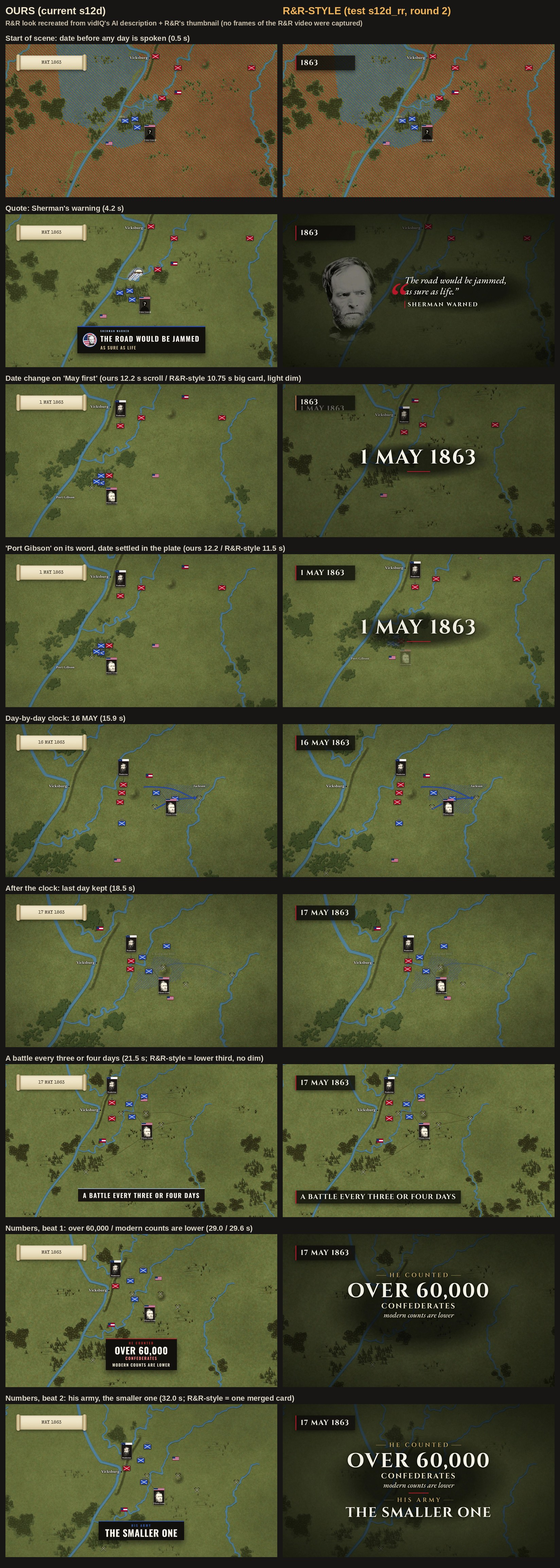
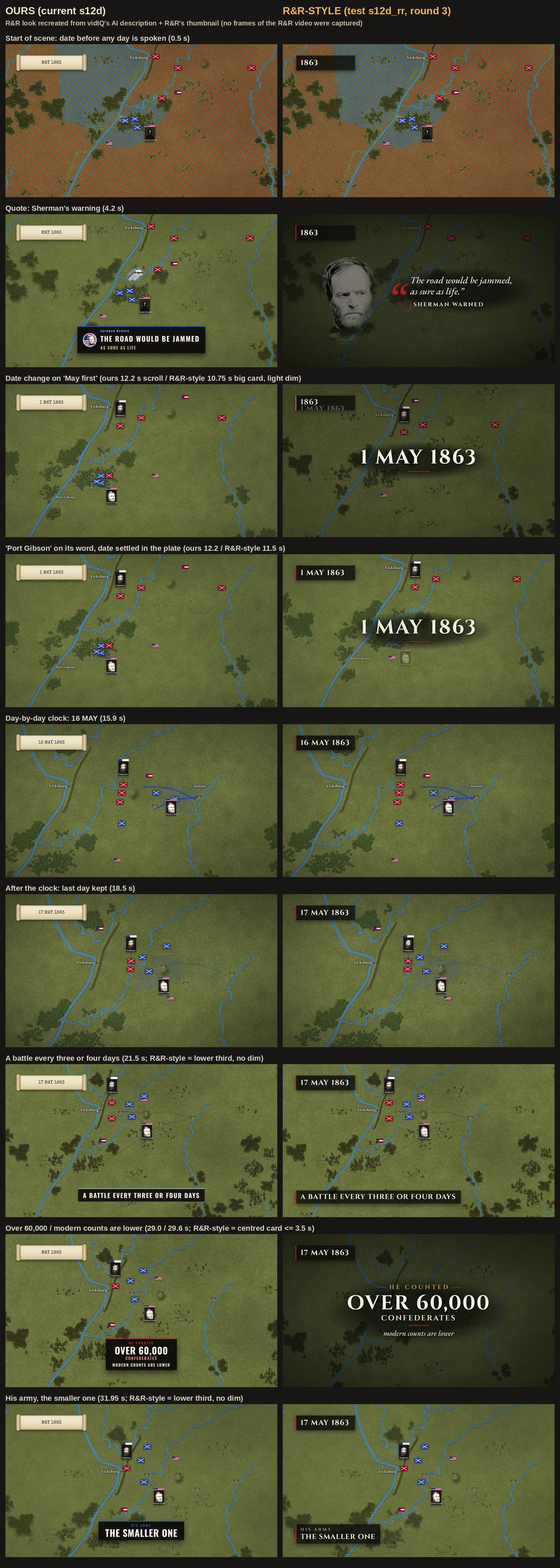
R&R cards test round 3 (split numbers card, quote spacing)
Claude-Session: https://claude.ai/code/session_011uJnj9PFzMNram5mgUPnoT

Changed region(s): [[0.4951, 0.8742, 0.9903, 0.9991], [0.6189, 0.8118, 0.8665, 0.843], [0.7427, 0.1561, 0.8356, 0.1873]]

diff --git a/grant/scenes-src/s12d_rr.js b/grant/scenes-src/s12d_rr.js
@@ -536,9 +536,9 @@ const RR = ((tl, gsap, SCN, CURV) => {
     el.style.cssText = "position:absolute;left:0;right:0;top:0;bottom:0;pointer-events:none";
     el.innerHTML = `${o.photo ? `<div style="position:absolute;left:150px;top:150px;width:560px;height:780px;-webkit-mask-image:radial-gradient(ellipse 50% 50% at 50% 50%, #000 55%, transparent 100%);mask-image:radial-gradient(ellipse 50% 50% at 50% 50%, #000 55%, transparent 100%)">
         <img src="${o.photo}" style="width:100%;height:100%;object-fit:cover;object-position:50% 25%;filter:grayscale(1) sepia(.15) brightness(.55) contrast(1.1);opacity:.85"></div>` : ""}
-      <div class="qb" style="position:absolute;left:720px;top:50%;transform:translateY(-50%);width:1080px;padding:54px 60px 44px 140px;${feather}">
+      <div class="qb" style="position:absolute;left:720px;top:50%;transform:translateY(-50%);width:1080px;padding:54px 60px 44px 180px;${feather}">
         ${o.pre ? `<div class="rr-s q0" style="font-size:${o.size || 66}px;line-height:1.18;color:${C.white}">${o.pre[0]}</div>` : ""}
-        <div class="q1" style="position:relative"><div style="position:absolute;left:-128px;top:-62px;font-family:'EB Garamond',Georgia,serif;font-style:italic;font-weight:500;font-size:300px;line-height:1;color:${C.red}">&ldquo;</div>
+        <div class="q1" style="position:relative"><div style="position:absolute;left:-166px;top:-62px;font-family:'EB Garamond',Georgia,serif;font-style:italic;font-weight:500;font-size:300px;line-height:1;color:${C.red}">&ldquo;</div>
           <div class="rr-s" style="font-size:${o.size || 66}px;line-height:1.18;color:${C.white}">${o.verb[0]}&rdquo;</div></div>
         <div class="at" style="display:flex;align-items:stretch;gap:18px;margin-top:30px"><div style="width:5px;background:${C.red}"></div><div class="rr-t" style="font-size:40px;letter-spacing:.16em;line-height:1.15;padding:2px 0">${o.who}</div></div></div>`;
     add(el, 61);
@@ -647,15 +647,16 @@ const CARD = (kick, big, sub, col, css, t, until) => scr(`<div style="background
   <div style="font-size:22px;letter-spacing:.3em;color:${col}">${kick}</div><div class="n" style="font-size:66px;letter-spacing:.03em;line-height:1.08">${big}</div>${sub}</div>`, css, t, until);
 const CSS = "left:0;right:0;bottom:120px;display:flex;justify-content:center;";
 const T_CONF = at(P4, "Confederates"), N_U = Math.min(B.T.paras["s12-4"][1], END - 0.3);   // ends with paragraph s12-4
-RR.card({ t: T_60 + 0.1, until: N_U, max: 6.5, items: [{ k: "kick", text: "HE COUNTED" }, { k: "title", text: "OVER 60,000", size: 140 },
-  { k: "line", text: "CONFEDERATES", t: T_CONF }, { k: "sub", text: "modern counts are lower", t: T_MOD }, { k: "rule", t: T_HIS - 0.2 },
-  { k: "kick", text: "HIS ARMY", t: T_HIS }, { k: "title", text: "THE SMALLER ONE", size: 96, t: T_SMALL }] });   // round 2: ONE card, two beats
+const N1_U = Math.min(T_60 + 0.1 + 3.5, T_HIS);
+RR.card({ t: T_60 + 0.1, until: N1_U, items: [{ k: "kick", text: "HE COUNTED" }, { k: "title", text: "OVER 60,000", size: 140 },
+  { k: "line", text: "CONFEDERATES", t: T_CONF }, { k: "rule" }, { k: "sub", text: "modern counts are lower", t: T_MOD }] });   // round 3: beat 1 = centred card <= 3.5 s
+RR.lower({ kick: "HIS ARMY", parts: [["THE SMALLER ONE", T_SMALL]], t: T_HIS, until: N_U });   // round 3: beat 2 = lower third, no dim, on "his army", ends with s12-4
 SFX("hit", T_60 + 0.2);
 SFX("hit", T_SMALL + 0.05);
 // the ring closes on Vicksburg (hand-off to s12e: the siege)
 B.move("u13", T_COUNT, 5, ...L(32.41, -90.76)); B.move("u17", T_COUNT + 0.3, 5, ...L(32.30, -90.74)); B.move("u15", T_COUNT + 0.5, 5, ...L(32.48, -90.72));
 B.move("rv", T_COUNT + 0.5, 4, ...L(32.37, -90.845)); tl.to(B.units.re.el, { autoAlpha: 0, duration: 0.8 }, T_COUNT + 2.5);
-declutter([], [[T_JAM - 0.1, SHC_U], [T_M1 - 0.05, T_M1 + 1.4], [T_EVERY + 0.1, ST_U], [T_60 + 0.1, N_U]]);
+declutter([], [[T_JAM - 0.1, SHC_U], [T_M1 - 0.05, T_M1 + 1.4], [T_EVERY + 0.1, ST_U], [T_60 + 0.1, N1_U], [T_HIS, N_U]]);
 document.documentElement.setAttribute("data-rrt", JSON.stringify({ T_JAM, T_LIFE, T_UNF, T_M1, T_PG, T_12, T_16, T_17, T_EVERY, T_34, T_ATE, T_COUNT, T_60, T_CONF, T_MOD, T_HIS, T_SMALL, N_U, END, SHC_U }));
 // ===== FORM 2 (owner 2026-11-07, approved v2 stripes, used SPARINGLY: 3 short perspective moments in the clip): clear STRIPES for BOTH sides (Confederate ground red lines, Union ground blue lines), no fill between
 // the lines; the stripes are drawn through alpha masks (tools/s12_make_mask.py) and keep a constant on-screen width/spacing at every camera scale

diff --git a/grant/tools/s12_body_s12d_rr.js b/grant/tools/s12_body_s12d_rr.js
@@ -101,15 +101,16 @@ const CARD = (kick, big, sub, col, css, t, until) => scr(`<div style="background
   <div style="font-size:22px;letter-spacing:.3em;color:${col}">${kick}</div><div class="n" style="font-size:66px;letter-spacing:.03em;line-height:1.08">${big}</div>${sub}</div>`, css, t, until);
 const CSS = "left:0;right:0;bottom:120px;display:flex;justify-content:center;";
 const T_CONF = at(P4, "Confederates"), N_U = Math.min(B.T.paras["s12-4"][1], END - 0.3);   // ends with paragraph s12-4
-RR.card({ t: T_60 + 0.1, until: N_U, max: 6.5, items: [{ k: "kick", text: "HE COUNTED" }, { k: "title", text: "OVER 60,000", size: 140 },
-  { k: "line", text: "CONFEDERATES", t: T_CONF }, { k: "sub", text: "modern counts are lower", t: T_MOD }, { k: "rule", t: T_HIS - 0.2 },
-  { k: "kick", text: "HIS ARMY", t: T_HIS }, { k: "title", text: "THE SMALLER ONE", size: 96, t: T_SMALL }] });   // round 2: ONE card, two beats
+const N1_U = Math.min(T_60 + 0.1 + 3.5, T_HIS);
+RR.card({ t: T_60 + 0.1, until: N1_U, items: [{ k: "kick", text: "HE COUNTED" }, { k: "title", text: "OVER 60,000", size: 140 },
+  { k: "line", text: "CONFEDERATES", t: T_CONF }, { k: "rule" }, { k: "sub", text: "modern counts are lower", t: T_MOD }] });   // round 3: beat 1 = centred card <= 3.5 s
+RR.lower({ kick: "HIS ARMY", parts: [["THE SMALLER ONE", T_SMALL]], t: T_HIS, until: N_U });   // round 3: beat 2 = lower third, no dim, on "his army", ends with s12-4
 SFX("hit", T_60 + 0.2);
 SFX("hit", T_SMALL + 0.05);
 // the ring closes on Vicksburg (hand-off to s12e: the siege)
 B.move("u13", T_COUNT, 5, ...L(32.41, -90.76)); B.move("u17", T_COUNT + 0.3, 5, ...L(32.30, -90.74)); B.move("u15", T_COUNT + 0.5, 5, ...L(32.48, -90.72));
 B.move("rv", T_COUNT + 0.5, 4, ...L(32.37, -90.845)); tl.to(B.units.re.el, { autoAlpha: 0, duration: 0.8 }, T_COUNT + 2.5);
-declutter([], [[T_JAM - 0.1, SHC_U], [T_M1 - 0.05, T_M1 + 1.4], [T_EVERY + 0.1, ST_U], [T_60 + 0.1, N_U]]);
+declutter([], [[T_JAM - 0.1, SHC_U], [T_M1 - 0.05, T_M1 + 1.4], [T_EVERY + 0.1, ST_U], [T_60 + 0.1, N1_U], [T_HIS, N_U]]);
 document.documentElement.setAttribute("data-rrt", JSON.stringify({ T_JAM, T_LIFE, T_UNF, T_M1, T_PG, T_12, T_16, T_17, T_EVERY, T_34, T_ATE, T_COUNT, T_60, T_CONF, T_MOD, T_HIS, T_SMALL, N_U, END, SHC_U }));
 // ===== FORM 2 (owner 2026-11-07, approved v2 stripes, used SPARINGLY: 3 short perspective moments in the clip): clear STRIPES for BOTH sides (Confederate ground red lines, Union ground blue lines), no fill between
 // the lines; the stripes are drawn through alpha masks (tools/s12_make_mask.py) and keep a constant on-screen width/spacing at every camera scale

diff --git a/research/style_tests/rr_cards/rr_cards.js b/research/style_tests/rr_cards/rr_cards.js
@@ -124,9 +124,9 @@ const RR = ((tl, gsap, SCN, CURV) => {
     el.style.cssText = "position:absolute;left:0;right:0;top:0;bottom:0;pointer-events:none";
     el.innerHTML = `${o.photo ? `<div style="position:absolute;left:150px;top:150px;width:560px;height:780px;-webkit-mask-image:radial-gradient(ellipse 50% 50% at 50% 50%, #000 55%, transparent 100%);mask-image:radial-gradient(ellipse 50% 50% at 50% 50%, #000 55%, transparent 100%)">
         <img src="${o.photo}" style="width:100%;height:100%;object-fit:cover;object-position:50% 25%;filter:grayscale(1) sepia(.15) brightness(.55) contrast(1.1);opacity:.85"></div>` : ""}
-      <div class="qb" style="position:absolute;left:720px;top:50%;transform:translateY(-50%);width:1080px;padding:54px 60px 44px 140px;${feather}">
+      <div class="qb" style="position:absolute;left:720px;top:50%;transform:translateY(-50%);width:1080px;padding:54px 60px 44px 180px;${feather}">
         ${o.pre ? `<div class="rr-s q0" style="font-size:${o.size || 66}px;line-height:1.18;color:${C.white}">${o.pre[0]}</div>` : ""}
-        <div class="q1" style="position:relative"><div style="position:absolute;left:-128px;top:-62px;font-family:'EB Garamond',Georgia,serif;font-style:italic;font-weight:500;font-size:300px;line-height:1;color:${C.red}">&ldquo;</div>
+        <div class="q1" style="position:relative"><div style="position:absolute;left:-166px;top:-62px;font-family:'EB Garamond',Georgia,serif;font-style:italic;font-weight:500;font-size:300px;line-height:1;color:${C.red}">&ldquo;</div>
           <div class="rr-s" style="font-size:${o.size || 66}px;line-height:1.18;color:${C.white}">${o.verb[0]}&rdquo;</div></div>
         <div class="at" style="display:flex;align-items:stretch;gap:18px;margin-top:30px"><div style="width:5px;background:${C.red}"></div><div class="rr-t" style="font-size:40px;letter-spacing:.16em;line-height:1.15;padding:2px 0">${o.who}</div></div></div>`;
     add(el, 61);

diff --git a/research/style_tests/rr_cards/RR_CARDS_STUDY.md b/research/style_tests/rr_cards/RR_CARDS_STUDY.md
@@ -85,8 +85,8 @@ Helpers `rr_cards.js`, scene copy `grant/scenes/s12d_rr` (built by `build_rr.py`
   update + every frame).
 - **Fewer full cards**: Sherman quote (~3 s), the 1 MAY date card (light), ONE merged numbers card. "A BATTLE EVERY / THREE OR FOUR
   DAYS" is a lower third (no dim; "THREE OR FOUR DAYS" lands on its words); the "ate off the country" sub-line is dropped.
-- **Merged numbers card**: HE COUNTED / OVER 60,000 / CONFEDERATES (on "Confederates") / *modern counts are lower* (on its words, ~3.7 s)
+- **Numbers (round 3, split again)**: beat 1 = centred card HE COUNTED / OVER 60,000 / CONFEDERATES (on "Confederates") / *modern counts are lower* (on its words), <= 3.5 s, ends on "his army"; beat 2 = lower third HIS ARMY / THE SMALLER ONE (no dim; lands on "his army", the title on "the smaller one"), ~2.2 s, ends with paragraph s12-4 (63.5 s voice time).
   / rule / HIS ARMY (on "his army") / THE SMALLER ONE (on "the smaller one"); ends with paragraph s12-4 (63.5 s voice time).
 - **Quote card**: darkened, desaturated Sherman portrait on the left, narrator's words in italic, the VERBATIM part *as sure as life*
-  with a big red hanging opening mark in the margin, attribution SHERMAN WARNED (40 px) with a red bar matched to its height.
+  with a big red hanging opening mark in the margin (round 3: more space before the text), attribution SHERMAN WARNED (40 px) with a red bar matched to its height.
 - No new sounds: only the original `hit` cues.
